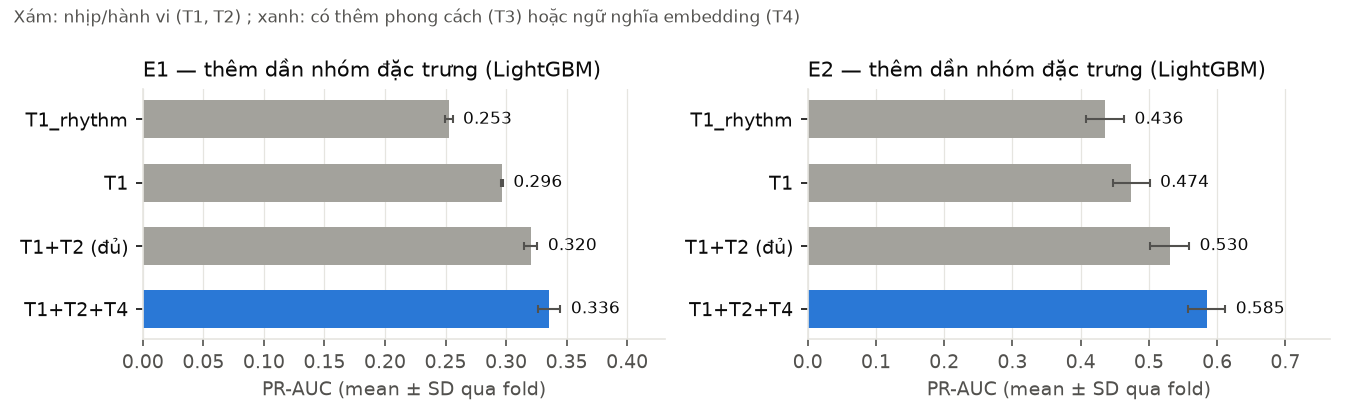
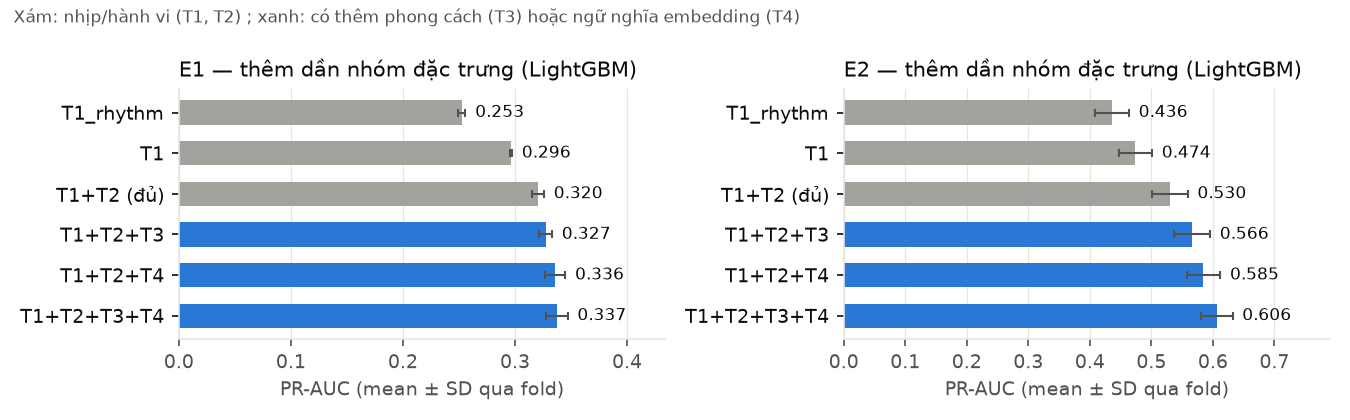
A7 +T3: ablation Head A với T3 của B5 (chạy từ 084698b) — T3 E1 +0.007 / E2 +0.035, T3+T4 E1 +0.017 / E2 +0.076 PR-AUC ; ledger bỏ 16 dòng bị thay thế ; cập nhật R2, hình, phân công
Claude-Session: https://claude.ai/code/session_014KuYkS1aLvip25zoLQ2zze

diff --git a/docs/02_PHAN_CONG.md b/docs/02_PHAN_CONG.md
@@ -51,7 +51,7 @@
 | A5 | Head A: baseline (đa số, rule gốc, `time_since_last`) + LR + LightGBM ; 5 phương án mất cân bằng (X2) ; calibration + τ1/τ2 | 13/11 — **bản đầu xong 31/10** (`src/m3_health/run_head_a.py`, kết quả `docs/results/HEAD_A_CV.md`) | Kết quả chính của bài |
 | A5b | **Imbalance trên H2 (UIT-ViCTSD)** — phần **chạy CPU**: 5 phương án none / class_weight / under / over / SMOTE với TF-IDF + LR và với embedding đã cache (do B tính) + LR ; tổng hợp cùng kết quả GPU của B (B10) ; chọn **τ_B theo FPR** cho Head B | 18/11 — **phần TF-IDF xong 02/11, phần embedding BGE-M3 + LR xong 11/11** (`docs/results/IMBALANCE_B.md`) ; chờ kết quả GPU (B10) | Under/oversampling, SMOTE là nội dung thầy nhấn mạnh → A thiết kế & kết luận thống nhất cho cả 2 head |
 | A6 | Head A: survival (Cox, Random Survival Forest) (X3) ; conformal (X8) nếu kịp — đều chạy CPU | 18/11 — **xong 03/11**: Cox + RSF (`docs/results/HEAD_A_SURVIVAL.md`) ; conformal CQR + weighted khi chuyển miền (`HEAD_A_CONFORMAL.md`) | Điểm cộng |
-| A7 | Ablation T1→T5 (X1), độ nhạy Δ (X5) | 19/11 — **T1/T2 + X4 cross-domain E1 ↔ E2 xong 03/11** (`HEAD_A_ABLATION.md`) ; X5 có trong `HEAD_A_SURVIVAL.md` ; chờ T3 (B5), T4–T5 (C1, B8) ; **+T4 xong 11/11** (E1 +0.015, E2 +0.054 PR-AUC ; `HEAD_A_ABLATION.md`) ; còn T3 (B5), T5 (C4) | Trả lời RQ1 |
+| A7 | Ablation T1→T5 (X1), độ nhạy Δ (X5) | 19/11 — **T1/T2 + X4 cross-domain E1 ↔ E2 xong 03/11** (`HEAD_A_ABLATION.md`) ; X5 có trong `HEAD_A_SURVIVAL.md` ; chờ T3 (B5), T4–T5 (C1, B8) ; **+T4 xong 11/11** (E1 +0.015, E2 +0.054 PR-AUC ; `HEAD_A_ABLATION.md`) ; **+T3 xong 13/11** (T3: E1 +0.007, E2 +0.035 ; T3+T4: E1 +0.017, E2 +0.076) ; còn T5 (C4) | Trả lời RQ1 |
 | A8 | **Chạy lại toàn bộ từ config + seed** sau khi mở test ; đối chiếu số với báo cáo | 22/11 | Tiêu chí "auditable" |
 | A9 | Phân tích lỗi cả 2 head (`06_*` §5b) + **Practical limits** (`06_*` §6) | 25/11 — **bản trên OOF train xong 04/11** (`docs/results/ERROR_ANALYSIS.md`) ; chạy lại trên test sau 20/11 ; còn E5 (sửa lỗi + so trước/sau) | Thầy yêu cầu phân tích lỗi & điểm yếu |
 | A10 | **Ghép báo cáo cuối** theo mẫu `01_*` §4 + checklist §5 ; slide | nháp 27/11 ; bản cuối 29/11 — **khung + số CV/OOF train viết 06/11** (`docs/08_BAO_CAO_M3.md`), ô `[TEST 20/11]` / `[CHỜ …]` điền dần | Một người chịu trách nhiệm tổng thể |
@@ -65,7 +65,7 @@
 | B1 | Tải, kiểm tra, parse **E1 Ubuntu + E2 Twitter CSKH** ; Data Card (N, đơn vị độc lập, prevalence, license, sha256) | 02/11 — **xong 30/10, A làm hộ** (`src/data/prepare.py`, `docs/data_cards/`) |
 | B2 | Tải, làm sạch **G1 (Conversations Gone Awry – Wiki)** + **H1 (ViHSD)** + **H2 (ViCTSD)** ; Data Card. Giao dữ liệu sạch cho A gán nhãn (A2b, A2c) | 04/11 — **xong 30/10, A làm hộ** |
 | B4 | Đặc trưng **T1** (hành vi thời gian) + **T2** (bề mặt văn bản, từ điển Anh/Việt) | 10/11 — A đã làm bản tối thiểu 21 đặc trưng (`src/m3_health/features.py`) ; B mở rộng |
-| B5 | Đặc trưng **T3** (LSM, mirroring, turn-taking) | 13/11 |
+| B5 | Đặc trưng **T3** (LSM, mirroring, turn-taking) | 13/11 — **xong 12/11** (PR #7, `features_t3.py`) |
 | B6 | Đánh giá bộ phát hiện câu hỏi/tin cụt trên DailyDialog (có nhãn dialog act) (X6) | 18/11 |
 | B8 | **[GPU]** Tính & **cache embedding** (mô hình C1 chọn) cho mọi tin nhắn của E1, E2, G1, H1, H2 → file `.npy` dùng chung (C cho T4/T5, A cho imbalance) ; ghi thời gian chạy, phần cứng. **Cách làm (A chốt 06/11):** (1) `python -m src.m3_health.embed_ids` → `data/processed/<ID>/embed_conversation_ids.txt` ; **chỉ embed tin của các hội thoại trong file này** (E1 2,35 / 9,15 triệu tin ; E2 0,62 / 2,36 triệu ; G1, H1, H2 lấy hết) — file đã gộp train + test, không nhãn, không cần mở `data/locked/`. (2) Encoder: `make_encoder()` + `encode_to_memmap()` trong `src/m3_health/embeddings.py` của C (đọc `configs/embedding.yaml`: BGE-M3 revision đã pin, fp16, `max_length` 256, dense, chuẩn hóa L2). (3) Lưu `data/processed/<ID>/emb_bge-m3.npy` (float16, mỗi dòng 1 tin) + `emb_bge-m3_index.parquet` (`conversation_id, turn_idx` đúng thứ tự dòng) — đúng tên này thì `run_ablation_a` tự thêm T4 (`src/m3_health/embedding_cache.py`). (4) Ghi 1 dòng ledger: GPU, thời gian chạy, số tin. **Không** commit `.npy` | 09/11 — **xong 10/11** (Modal, GPU T4 ; A review PR #5 10/11: 91 test pass, số tin khớp `embed_ids`, ledger trỏ commit `3ecf61e`) ; **còn: chuyển cache cho A, C** (Drive). E1 2.348.495; E2 624.065; G1 26.188; H1 33.400; H2 10.000 tin. GPU T4, 5 dòng ledger; hướng dẫn `docs/B8_EMBEDDING_CACHE.md`. |
 | B9 | **[GPU]** **TabPFN v2** cho Head A (X7) — nhận từ A ; so với LightGBM của A theo kích thước train ; dùng split/khung đánh giá của A | 18/11 |

diff --git a/docs/08_BAO_CAO_M3.md b/docs/08_BAO_CAO_M3.md
@@ -86,7 +86,7 @@ messages → mẫu (c, t) + nhãn + cờ censor → đặc trưng T1+T2 (≤ t)
   - T1_clock (3): giờ trong ngày, cuối tuần, ban đêm.
   - T1_asym (2): tỉ lệ người gửi tin cuối, double-text.
   - T2_surface (7): độ dài, tin cụt, câu hỏi.
-  - `[CHỜ B5]` T3: LSM, mirroring, turn-taking. `[CHỜ C1/B8]` T4–T5: embedding BGE-M3 (chốt 06/11).
+  - T3 (B5): LSM trên từ chức năng, lexical mirroring, độ dài lượt / tỉ lệ đổi lượt, trong cửa sổ 10 tin kết thúc tại t ; giá trị thiếu là NaN + cờ thiếu. `[CHỜ C1/B8]` T4–T5: embedding BGE-M3 (chốt 06/11).
 - **Candidate Head A:** đa số ; rule của tài liệu gốc ; chỉ `gap_last` ; LR ; LightGBM (300 cây, lr 0.05, 31 lá). Mỗi mô hình × 5 phương án mất cân bằng (none, class_weight, undersample, oversample, SMOTE). Survival: Cox PH, Random Survival Forest. `[CHỜ B9]` TabPFN v2.
 - **Candidate Head B:** đa số ; từ điển từ xúc phạm ; LR chỉ độ dài ; TF-IDF + LR (có và không có đặc trưng độ dài). `[CHỜ C2/C4]` PhoBERT/XLM-R, CRAFT-like.
 - **Calibration:** Platt và isotonic, chọn theo Brier trên calibration. Prior shift đưa xác suất về prevalence thật trước khi hiệu chỉnh, vì resampling làm lệch xác suất.
@@ -142,13 +142,14 @@ Xác suất Head B sau hiệu chỉnh Platt bám sát đường chéo (ECE theo 
 | bỏ T1_rhythm | 0.181 ± 0.016 (Δ −0.140) | 0.476 ± 0.030 (Δ −0.054) |
 | bỏ T1_clock | 0.322 ± 0.005 (Δ +0.001) | 0.529 ± 0.029 (Δ −0.001) |
 | bỏ T1_asym | 0.280 ± 0.005 (Δ −0.041) | 0.490 ± 0.028 (Δ −0.040) |
-| + T3 | `[CHỜ B5]` | |
-| + T4 (BGE-M3 đóng băng: độ liên quan trả lời, topic drift / novelty, PCA 32 chiều) | 0.336 ± 0.009 (Δ +0.015 ± 0.004) | 0.585 ± 0.027 (Δ +0.054 ± 0.005) |
+| + T3 (phong cách: LSM, mirroring, turn-taking ; B5) | 0.327 ± 0.006 (Δ +0.007 ± 0.003) | 0.566 ± 0.030 (Δ +0.035 ± 0.004) |
+| + T4 không T3 (BGE-M3 đóng băng: độ liên quan trả lời, topic drift / novelty, PCA 32 chiều) | 0.336 ± 0.009 (Δ +0.015 ± 0.004) | 0.585 ± 0.027 (Δ +0.054 ± 0.005) |
+| + T3 + T4 | **0.337 ± 0.010** (Δ +0.017 ± 0.005) | **0.606 ± 0.026** (Δ +0.076 ± 0.004) |
 | + T5 | `[CHỜ C4]` | |
 
 ![Head A: ablation thêm dần nhóm đặc trưng](figures/headA_ablation.png)
 
-**RQ1 (tạm):** nhịp trả lời quyết định nhiều nhất, sau đó là bất đối xứng hai bên và bề mặt văn bản ; giờ trong ngày không giúp gì. Ngữ nghĩa T4 giúp rõ trên E2 (+0.054, gấp khoảng 10 lần SD của hiệu số) nhưng ít trên E1 (+0.015) — hội thoại CSKH "tắt" theo nội dung (đã giải quyết xong), còn IRC tắt chủ yếu theo nhịp.
+**RQ1 (tạm):** nhịp trả lời quyết định nhiều nhất, sau đó là bất đối xứng hai bên và bề mặt văn bản ; giờ trong ngày không giúp gì. Phong cách T3 thêm +0.035 trên E2 nhưng chỉ +0.007 trên E1 ; ngữ nghĩa T4 giúp rõ trên E2 (+0.054 khi thêm riêng, gấp khoảng 10 lần SD của hiệu số) nhưng ít trên E1 (+0.015). Hai nhóm bổ sung cho nhau: T3 + T4 cho E2 0.606 (+0.076), E1 0.337 (+0.017) — hội thoại CSKH "tắt" theo nội dung (đã giải quyết xong), còn IRC tắt chủ yếu theo nhịp.
 
 ### R3 — Mất cân bằng (X2)
 

diff --git a/docs/results/HEAD_A_ABLATION.md b/docs/results/HEAD_A_ABLATION.md
@@ -1,6 +1,6 @@
-# Head A — ablation đặc trưng (A7, X1 phần T1/T2) và cross-domain (X4)
+# Head A — ablation đặc trưng (A7, X1) và cross-domain (X4)
 
-> Sinh bởi `python -m src.m3_health.run_ablation_a`. Chỉ tập train ; cùng hội thoại và fold forward chaining K = 5 với `HEAD_A_CV.md` ; LightGBM + none cố định, Δ = 48h. Mean ± SD qua 5 fold. T3 (B5), T4–T5 (C1, B8) sẽ thêm dòng khi có.
+> Sinh bởi `python -m src.m3_health.run_ablation_a`. Chỉ tập train ; cùng hội thoại và fold forward chaining K = 5 với `HEAD_A_CV.md` ; LightGBM + none cố định, Δ = 48h. Mean ± SD qua các fold. T3 theo B5; T4 nếu có cache B8; T5 chưa có.
 
 ## X1 — ablation nhóm đặc trưng (PR-AUC)
 
@@ -14,7 +14,8 @@ Nhóm: **T1_rhythm** = n_msgs, conv_age_log, gap_last, gap_mean, gap_max, gap_st
 | − T1_rhythm | 12 | 0.181 ± 0.016 | -0.140 ± 0.015 | 0.476 ± 0.030 | -0.054 ± 0.003 |
 | − T1_clock | 18 | 0.322 ± 0.005 | 0.001 ± 0.002 | 0.529 ± 0.029 | -0.001 ± 0.003 |
 | − T1_asym | 19 | 0.280 ± 0.005 | -0.041 ± 0.004 | 0.490 ± 0.028 | -0.040 ± 0.003 |
-| T1+T2+T4 | 63 | 0.336 ± 0.009 | 0.015 ± 0.004 | 0.585 ± 0.027 | 0.054 ± 0.005 |
+| T1+T2+T3 | 31 | 0.327 ± 0.006 | 0.007 ± 0.003 | 0.566 ± 0.030 | 0.035 ± 0.004 |
+| T1+T2+T3+T4 | 73 | 0.337 ± 0.010 | 0.017 ± 0.005 | 0.606 ± 0.026 | 0.076 ± 0.004 |
 
 Δ so với đủ tính theo cặp cùng fold (âm = bỏ nhóm làm giảm PR-AUC).
 
